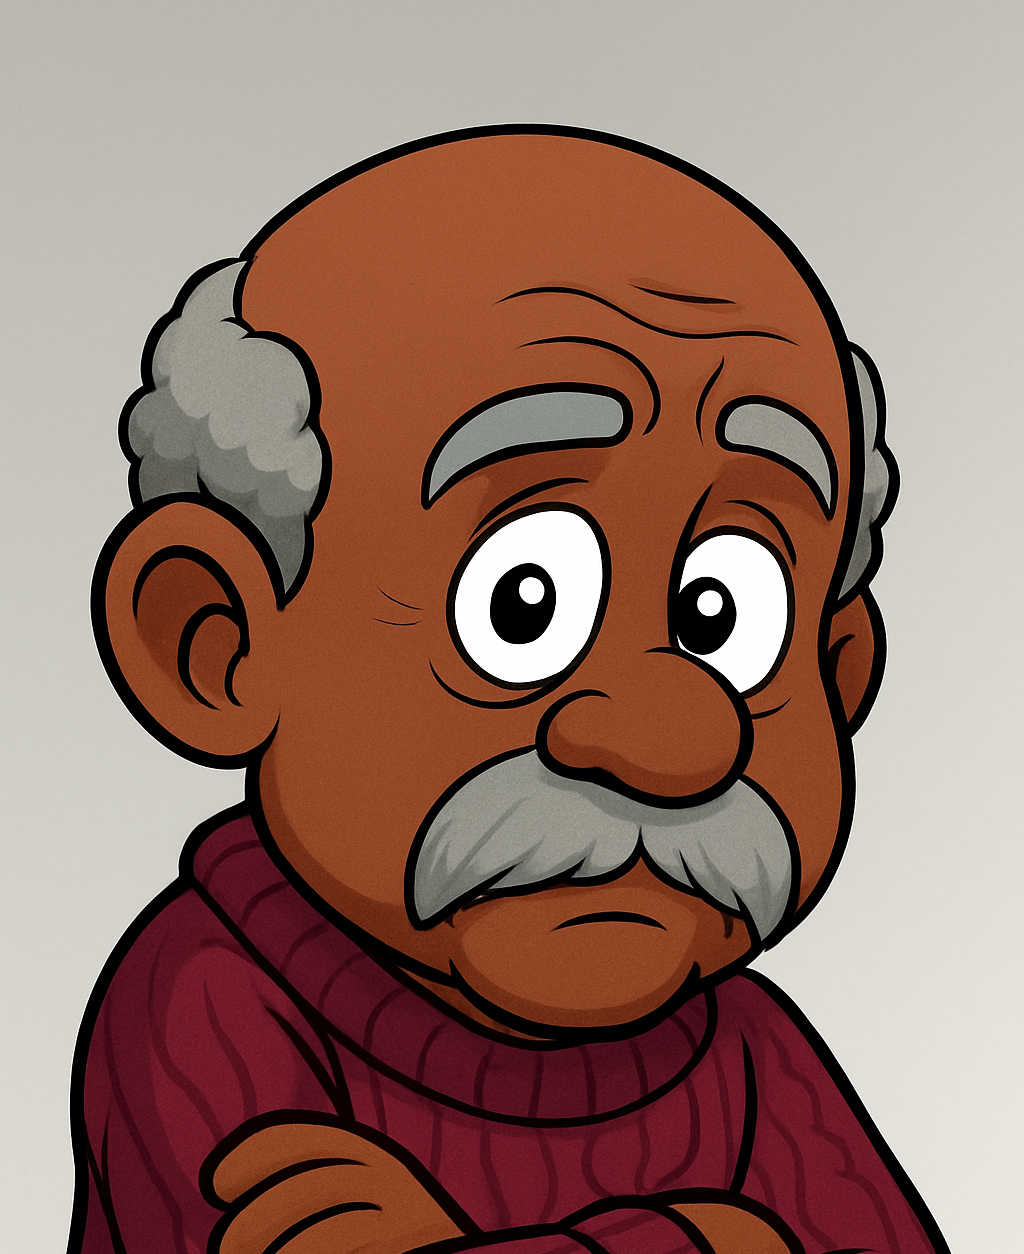
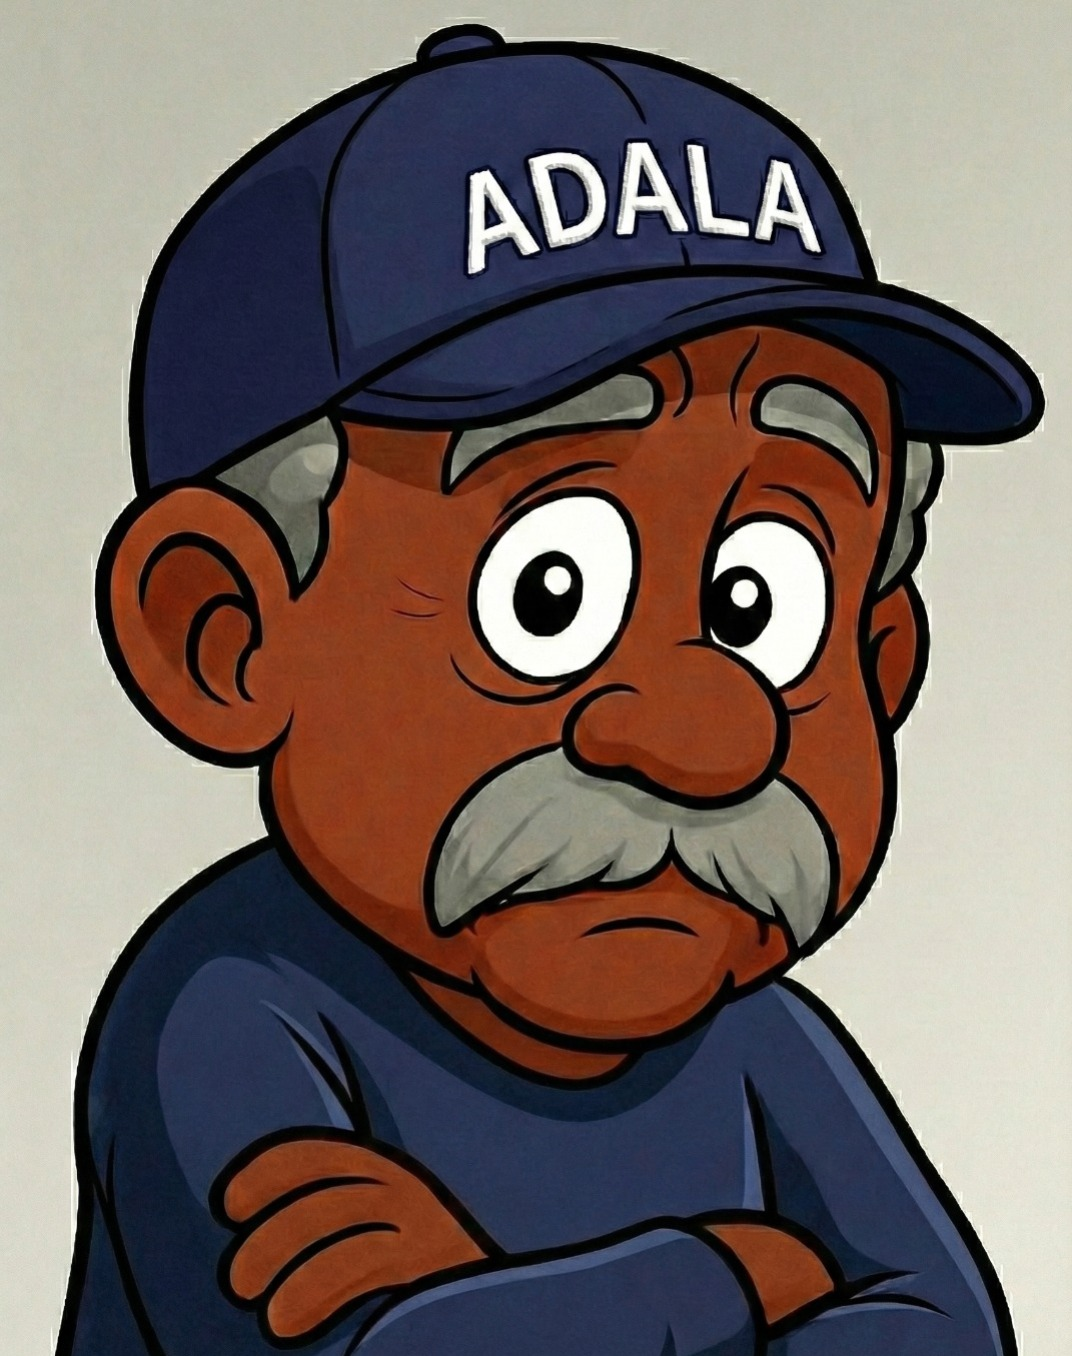
consistent branding of images and bancosystem twilio sms display name

diff --git a/app/Filament/Resources/AgentApplicationResource.php b/app/Filament/Resources/AgentApplicationResource.php
@@ -4,7 +4,8 @@ namespace App\Filament\Resources;
 
 use App\Filament\Resources\AgentApplicationResource\Pages;
 use App\Models\AgentApplication;
-use App\Services\RapiWhaService;
+use App\Models\Agent;
+use App\Services\WhatsAppCloudApiService;
 use Filament\Forms;
 use Filament\Forms\Form;
 use Filament\Resources\Resource;
@@ -187,14 +188,44 @@ class AgentApplicationResource extends BaseResource
                     ->color('success')
                     ->requiresConfirmation()
                     ->modalHeading('Approve Agent Application')
-                    ->modalDescription('This will generate an agent code and send approval notification via WhatsApp.')
+                    ->modalDescription('This will generate an agent code, create an online agent record, and send approval notifications.')
                     ->visible(fn (AgentApplication $record) => $record->status === 'pending')
                     ->action(function (AgentApplication $record) {
                         $record->approve();
                         
+                        // Create Agent record with type "online"
+                        try {
+                            $agent = Agent::create([
+                                'agent_code' => $record->agent_code,
+                                'first_name' => $record->first_name,
+                                'last_name' => $record->surname,
+                                'phone' => $record->voice_number,
+                                'national_id' => $record->id_number,
+                                'status' => 'active',
+                                'type' => 'online', // Online agents from WhatsApp applications
+                                'region' => $record->province,
+                                'hire_date' => now(),
+                                'commission_rate' => 5.00, // Default commission rate
+                                'metadata' => [
+                                    'application_id' => $record->id,
+                                    'whatsapp_number' => $record->whatsapp_contact,
+                                    'ecocash_number' => $record->ecocash_number,
+                                    'source' => 'whatsapp_application',
+                                ],
+                            ]);
+                            
+                            Log::info('Online agent created from application', [
+                                'agent_id' => $agent->id,
+                                'agent_code' => $agent->agent_code,
+                                'application_id' => $record->id,
+                            ]);
+                        } catch (\Exception $e) {
+                            Log::error('Failed to create agent record: ' . $e->getMessage());
+                        }
+                        
                         // Send WhatsApp notification
                         try {
-                            $rapiWhaService = app(RapiWhaService::class);
+                            $whatsAppService = app(WhatsAppCloudApiService::class);
                             $from = 'whatsapp:+' . $record->whatsapp_contact;
                             
                             $msg = "🎉 *Congratulations, {$record->first_name}!*\n\n";
@@ -206,16 +237,26 @@ class AgentApplicationResource extends BaseResource
                             $msg .= "Use your Agent Code to login and start earning commissions!\n\n";
                             $msg .= "Welcome to Microbiz Zimbabwe! 🚀";
                             
-                            $rapiWhaService->sendMessage($from, $msg);
+                            $whatsAppService->sendMessage($from, $msg);
                             
                             Log::info('Agent approval WhatsApp sent', ['agent_code' => $record->agent_code]);
                         } catch (\Exception $e) {
                             Log::error('Failed to send agent approval WhatsApp: ' . $e->getMessage());
                         }
                         
+                        // Send SMS with agent code
+                        try {
+                            $smsService = app(\App\Services\SMSService::class);
+                            $smsMsg = "Congratulations {$record->first_name}! Your Bancosystem Agent Code is: {$record->agent_code}. Login at: " . config('app.url') . "/agent/login";
+                            $smsService->sendSMS($record->voice_number, $smsMsg);
+                            Log::info('Agent approval SMS sent', ['agent_code' => $record->agent_code, 'phone' => $record->voice_number]);
+                        } catch (\Exception $e) {
+                            Log::error('Failed to send agent approval SMS: ' . $e->getMessage());
+                        }
+                        
                         Notification::make()
                             ->title('Agent Approved')
-                            ->body("Agent code {$record->agent_code} generated and sent to {$record->first_name}")
+                            ->body("Agent code {$record->agent_code} generated. Online agent created and notifications sent.")
                             ->success()
                             ->send();
                     }),
@@ -231,7 +272,7 @@ class AgentApplicationResource extends BaseResource
                         Forms\Components\Textarea::make('rejection_reason')
                             ->label('Reason for Rejection')
                             ->required()
-                            ->helperText('This reason will be sent to the applicant and they can reapply.')
+                            ->helperText('This reason will be sent to the applicant via WhatsApp and SMS.')
                             ->maxLength(500),
                     ])
                     ->visible(fn (AgentApplication $record) => $record->status === 'pending')
@@ -241,7 +282,7 @@ class AgentApplicationResource extends BaseResource
                         
                         // Send WhatsApp notification
                         try {
-                            $rapiWhaService = app(RapiWhaService::class);
+                            $whatsAppService = app(WhatsAppCloudApiService::class);
                             $from = 'whatsapp:+' . $record->whatsapp_contact;
                             
                             $msg = "Hi {$record->first_name},\n\n";
@@ -250,14 +291,24 @@ class AgentApplicationResource extends BaseResource
                             $msg .= "You may reapply after addressing the above concerns by sending 'Hi' to start a new application.\n\n";
                             $msg .= "Thank you for your interest in Microbiz Zimbabwe.";
                             
-                            $rapiWhaService->sendMessage($from, $msg);
+                            $whatsAppService->sendMessage($from, $msg);
                         } catch (\Exception $e) {
                             Log::error('Failed to send agent rejection WhatsApp: ' . $e->getMessage());
                         }
                         
+                        // Send SMS notification with rejection reason
+                        try {
+                            $smsService = app(\App\Services\SMSService::class);
+                            $smsMsg = "Hi {$record->first_name}, your Bancosystem agent application was not approved. Reason: {$data['rejection_reason']}. You may reapply after addressing this.";
+                            $smsService->sendSMS($record->voice_number, $smsMsg);
+                            Log::info('Agent rejection SMS sent', ['phone' => $record->voice_number]);
+                        } catch (\Exception $e) {
+                            Log::error('Failed to send agent rejection SMS: ' . $e->getMessage());
+                        }
+                        
                         Notification::make()
                             ->title('Application Rejected')
-                            ->body("Application from {$record->first_name} has been rejected. They can reapply.")
+                            ->body("Application from {$record->first_name} has been rejected. SMS and WhatsApp sent.")
                             ->warning()
                             ->send();
                     }),

diff --git a/resources/views/admin/portal.blade.php b/resources/views/admin/portal.blade.php
@@ -56,7 +56,6 @@
                 <img src="/adala2-removebg-preview.png" alt="Adala Logo" class="h-24 w-auto object-contain">
             </div>
             <h1 class="text-5xl font-bold text-gray-900 mb-4 tracking-tight drop-shadow-sm">Admin Ecosystem</h1>
-            <p class="text-xl text-gray-600 font-light max-w-2xl mx-auto">Seamlessly manage loans, finances, inventory, and personnel from a unified hub.</p>
         </div>
 
         <div class="grid grid-cols-1 md:grid-cols-2 lg:grid-cols-3 gap-8 px-4">
@@ -69,7 +68,7 @@
                             <svg class="w-8 h-8 text-white" fill="none" stroke="currentColor" viewBox="0 0 24 24"><path stroke-linecap="round" stroke-linejoin="round" stroke-width="2" d="M19 21V5a2 2 0 00-2-2H7a2 2 0 00-2 2v16m14 0h2m-2 0h-5m-9 0H3m2 0h5M9 7h1m-1 4h1m4-4h1m-1 4h1m-5 10v-5a1 1 0 011-1h2a1 1 0 011 1v5m-4 0h4"></path></svg>
                         </div>
                         <h3 class="text-2xl font-bold text-gray-800 mb-3 group-hover:text-green-600 transition-colors">ZB Bank Admin</h3>
-                        <p class="text-gray-600 leading-relaxed text-sm">Loan processing, application workflows, and automated PDF generation.</p>
+                       
                     </div>
                 </div>
             </a>
@@ -83,7 +82,7 @@
                             <svg class="w-8 h-8 text-white" fill="none" stroke="currentColor" viewBox="0 0 24 24"><path stroke-linecap="round" stroke-linejoin="round" stroke-width="2" d="M12 8c-1.657 0-3 .895-3 2s1.343 2 3 2 3 .895 3 2-1.343 2-3 2m0-8c1.11 0 2.08.402 2.599 1M12 8V7m0 1v8m0 0v1m0-1c-1.11 0-2.08-.402-2.599-1M21 12a9 9 0 11-18 0 9 9 0 0118 0z"></path></svg>
                         </div>
                         <h3 class="text-2xl font-bold text-gray-800 mb-3 group-hover:text-blue-600 transition-colors">Accounting</h3>
-                        <p class="text-gray-600 leading-relaxed text-sm">Cashbook, ledgers, profit analysis, and commission payouts.</p>
+                        
                     </div>
                 </div>
             </a>
@@ -97,8 +96,7 @@
                             <svg class="w-8 h-8 text-white" fill="none" stroke="currentColor" viewBox="0 0 24 24"><path stroke-linecap="round" stroke-linejoin="round" stroke-width="2" d="M20 7l-8-4-8 4m16 0l-8 4m8-4v10l-8 4m0-10L4 7m8 4v10M4 7v10l8 4"></path></svg>
                         </div>
                         <h3 class="text-2xl font-bold text-gray-800 mb-3 group-hover:text-orange-600 transition-colors">Stores Manager</h3>
-                        <p class="text-gray-600 leading-relaxed text-sm">Inventory tracking, product management, and stock movement.</p>
-                    </div>
+                         </div>
                 </div>
             </a>
 
@@ -111,12 +109,11 @@
                             <svg class="w-8 h-8 text-white" fill="none" stroke="currentColor" viewBox="0 0 24 24"><path stroke-linecap="round" stroke-linejoin="round" stroke-width="2" d="M17 20h5v-2a3 3 0 00-5.356-1.857M17 20H7m10 0v-2c0-.656-.126-1.283-.356-1.857M7 20H2v-2a3 3 0 015.356-1.857M7 20v-2c0-.656.126-1.283.356-1.857m0 0a5.002 5.002 0 019.288 0M15 7a3 3 0 11-6 0 3 3 0 016 0zm6 3a2 2 0 11-4 0 2 2 0 014 0zM7 10a2 2 0 11-4 0 2 2 0 014 0z"></path></svg>
                         </div>
                         <h3 class="text-2xl font-bold text-gray-800 mb-3 group-hover:text-purple-600 transition-colors">HR & Payroll</h3>
-                        <p class="text-gray-600 leading-relaxed text-sm">Employee directory, payroll allocation, and performance metrics.</p>
-                    </div>
+                         </div>
                 </div>
             </a>
 
-            <!-- Partner -->
+            <!-- Partner read only dashboard -->
             <a href="/partner" class="block group h-full">
                 <div class="glass rounded-3xl p-8 h-full card-hover border-t-4 border-gray-600 relative overflow-hidden bg-white/60">
                     <div class="absolute top-0 right-0 w-40 h-40 bg-gray-600/5 rounded-bl-full -mr-10 -mt-10 transition-all duration-500 group-hover:bg-gray-600/10 group-hover:scale-110"></div>
@@ -125,8 +122,7 @@
                             <svg class="w-8 h-8 text-white" fill="none" stroke="currentColor" viewBox="0 0 24 24"><path stroke-linecap="round" stroke-linejoin="round" stroke-width="2" d="M15 12a3 3 0 11-6 0 3 3 0 016 0z"></path><path stroke-linecap="round" stroke-linejoin="round" stroke-width="2" d="M2.458 12C3.732 7.943 7.523 5 12 5c4.478 0 8.268 2.943 9.542 7-1.274 4.057-5.064 7-9.542 7-4.477 0-8.268-2.943-9.542-7z"></path></svg>
                         </div>
                         <h3 class="text-2xl font-bold text-gray-800 mb-3 group-hover:text-gray-700 transition-colors">Partner Access</h3>
-                        <p class="text-gray-600 leading-relaxed text-sm">Read-only dashboard for transparency and auditing.</p>
-                    </div>
+                           </div>
                 </div>
             </a>
         </div>

diff --git a/config/services.php b/config/services.php
@@ -41,6 +41,8 @@ return [
         'api_key_sid' => env('TWILIO_API_KEY_SID'),
         'api_key_secret' => env('TWILIO_API_KEY_SECRET'),
         'from' => env('TWILIO_FROM'),
+        // Alphanumeric Sender ID for SMS branding (one-way messaging)
+        'alpha_sender_id' => env('TWILIO_ALPHA_SENDER', 'BANCOSYSTEM'),
         // WhatsApp configuration (DEPRECATED - use whatsapp_cloud instead)
         'whatsapp_from' => env('TWILIO_WHATSAPP_FROM', 'whatsapp:+14155238886'), // Sandbox default
         'whatsapp_business_id' => env('TWILIO_WHATSAPP_BUSINESS_ID'),

diff --git a/app/Services/OtpService.php b/app/Services/OtpService.php
@@ -15,7 +15,8 @@ class OtpService
     {
         $accountSid = config('services.twilio.account_sid');
         $authToken = config('services.twilio.auth_token');
-        $this->fromNumber = config('services.twilio.from');
+        // Use alpha sender ID for branding (e.g., BANCOSYSTEM), fallback to phone number
+        $this->fromNumber = config('services.twilio.alpha_sender_id') ?: config('services.twilio.from');
 
         // Use Account SID and Auth Token for authentication
         $this->twilio = new Client($accountSid, $authToken);

diff --git a/app/Services/TwilioSmsService.php b/app/Services/TwilioSmsService.php
@@ -16,7 +16,8 @@ class TwilioSmsService
     {
         $this->accountSid = config('services.twilio.account_sid');
         $this->authToken = config('services.twilio.auth_token');
-        $this->fromNumber = config('services.twilio.from');
+        // Use alpha sender ID for branding (e.g., BANCOSYSTEM), fallback to phone number
+        $this->fromNumber = config('services.twilio.alpha_sender_id') ?: config('services.twilio.from');
     }
     
     /**

diff --git a/config/logging.php b/config/logging.php
@@ -124,7 +124,7 @@ return [
         'slack' => [
             'driver' => 'slack',
             'url' => env('LOG_SLACK_WEBHOOK_URL'),
-            'username' => env('LOG_SLACK_USERNAME', 'Laravel Log'),
+            'username' => env('LOG_SLACK_USERNAME', 'BancoSystem'),
             'emoji' => env('LOG_SLACK_EMOJI', ':boom:'),
             'level' => env('LOG_LEVEL', 'critical'),
             'replace_placeholders' => true,

diff --git a/config/app.php b/config/app.php
@@ -13,7 +13,7 @@ return [
     |
     */
 
-    'name' => env('APP_NAME', 'Laravel'),
+    'name' => env('APP_NAME', 'BancoSystem'),
 
     /*
     |--------------------------------------------------------------------------
